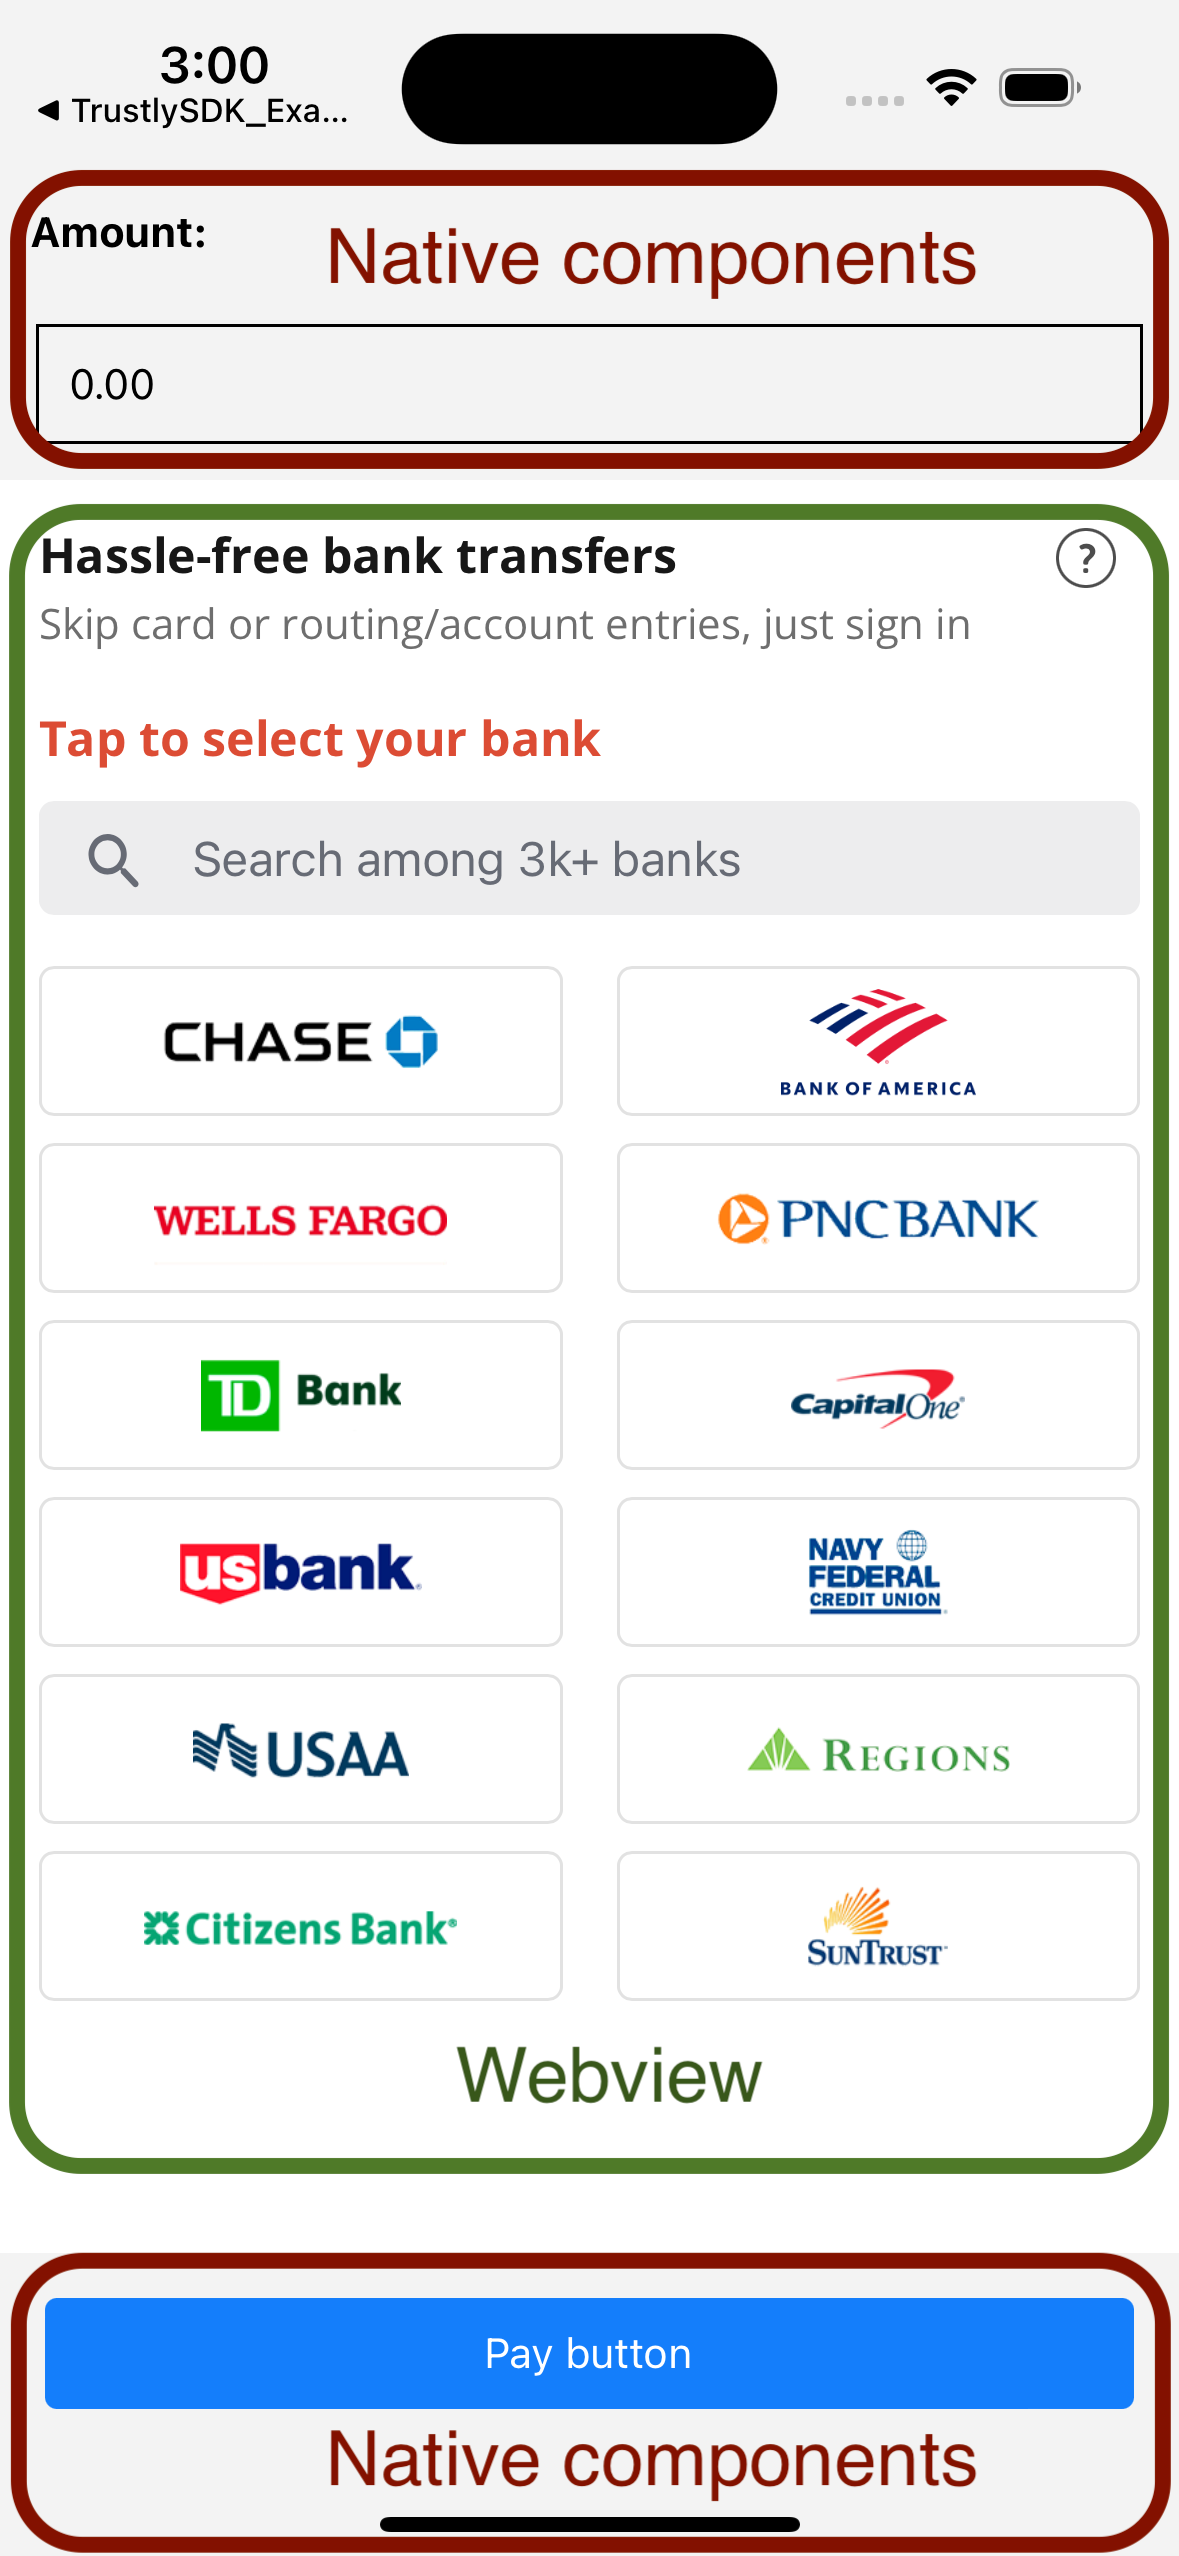
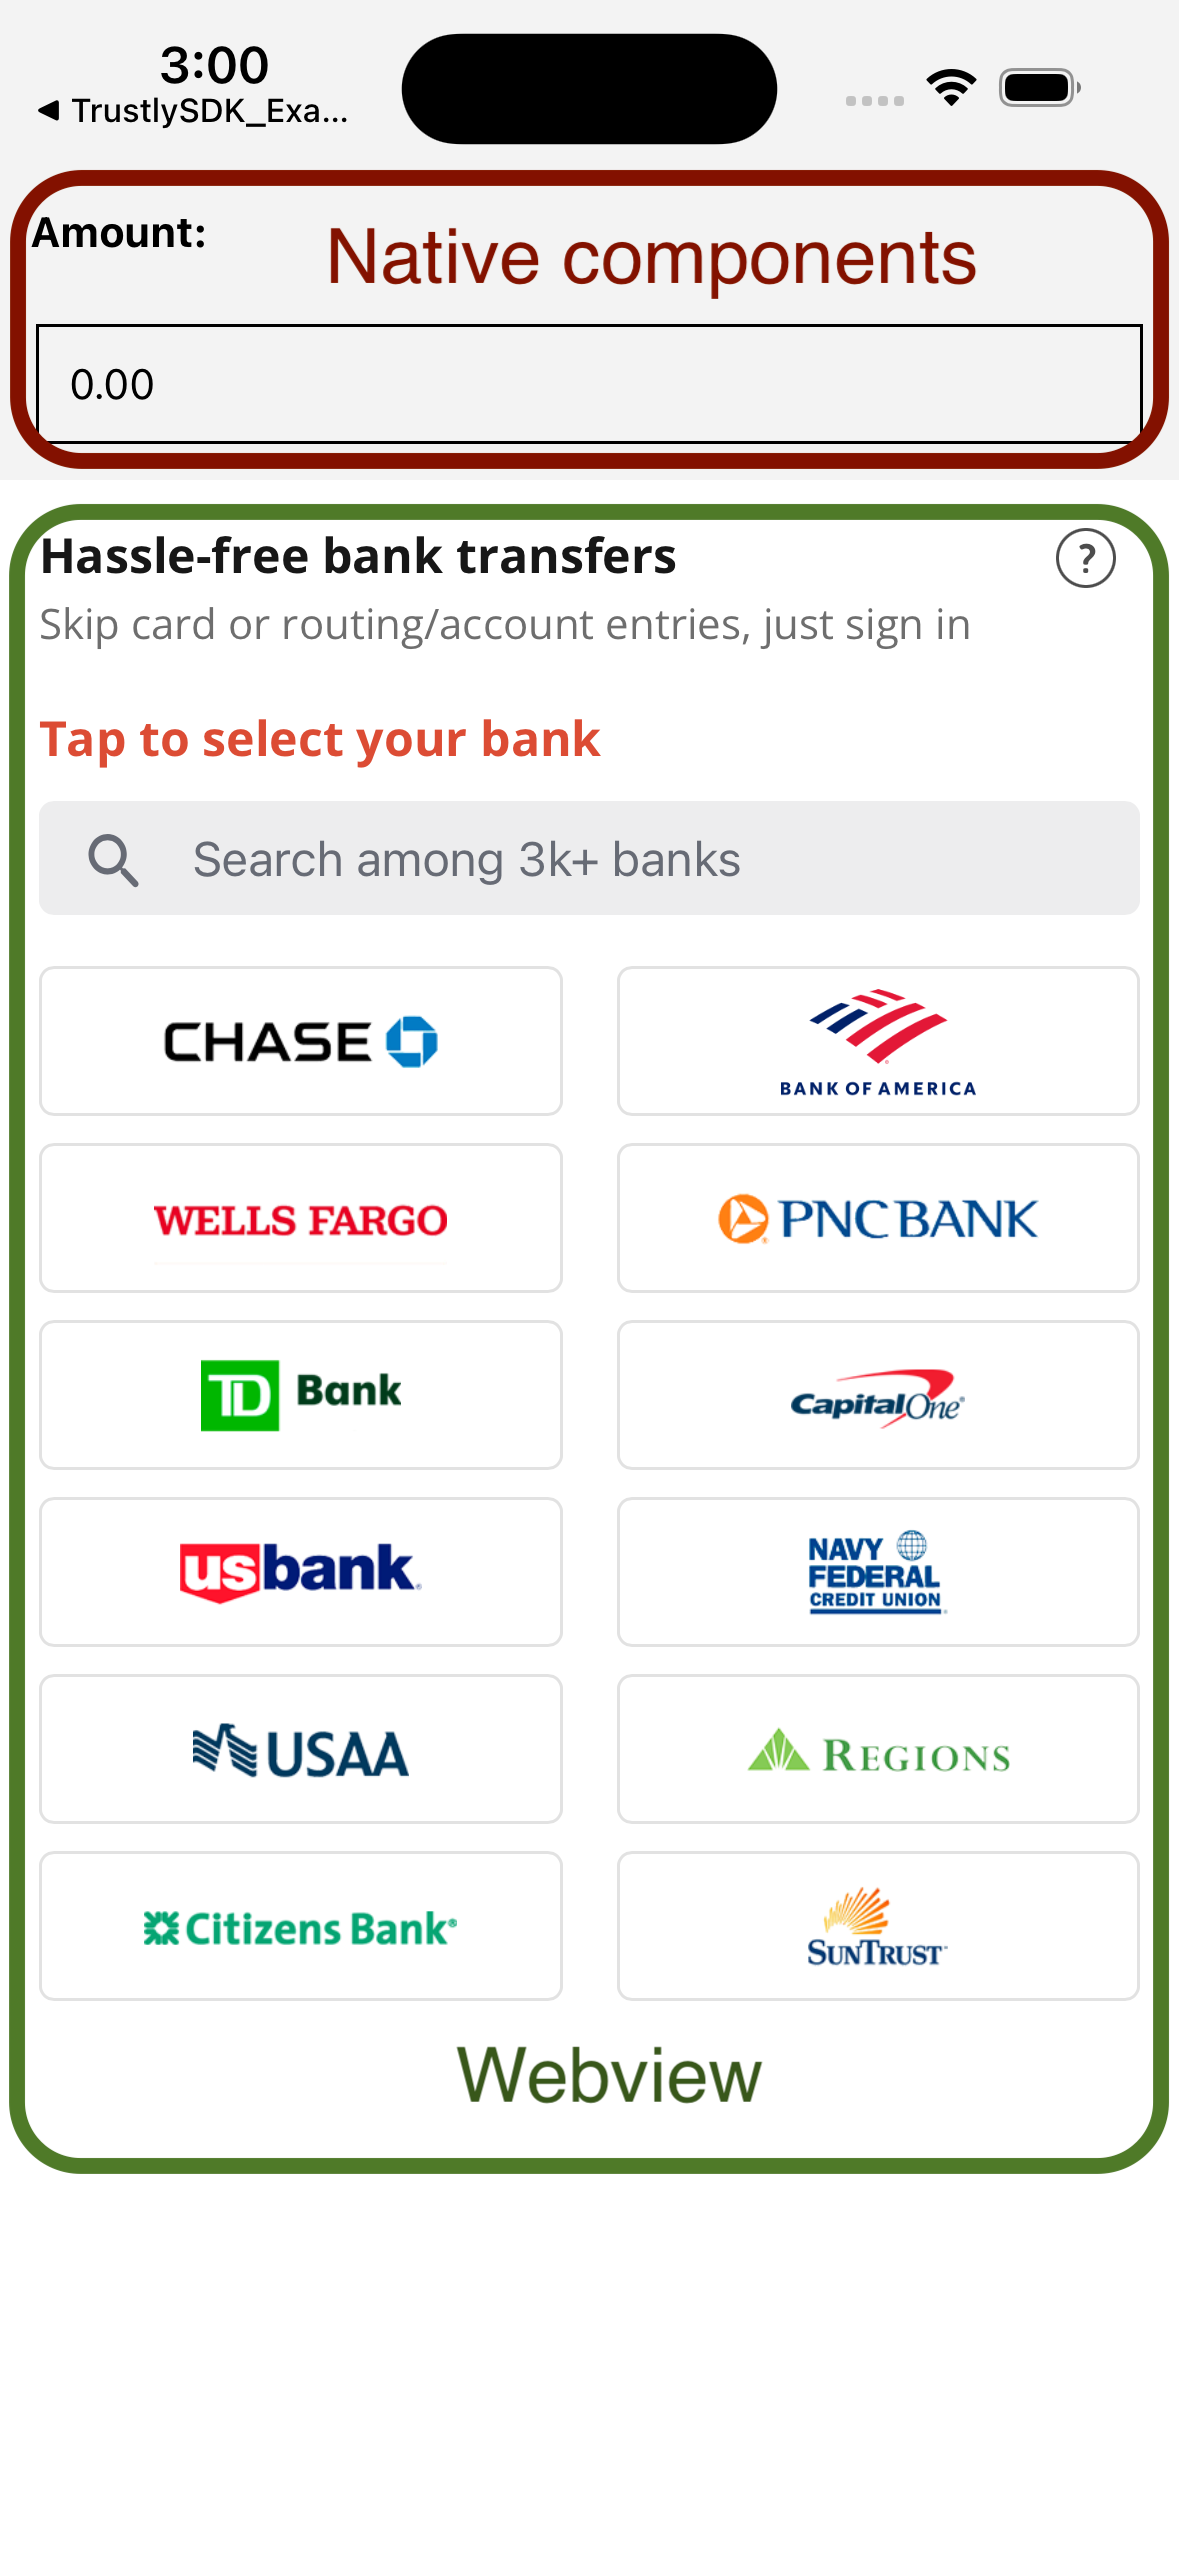
Change to show bank authentication when select bank on the widget

Changed region(s): [[0.0, 0.8654, 1.0, 1.0]]

diff --git a/src/App.tsx b/src/App.tsx
@@ -47,7 +47,6 @@ export default class App extends Component {
 
   state = {
     amount: '',
-    paymentProviderId: '',
     step: 'widget',
     returnParameters: '',
   };
@@ -134,7 +133,10 @@ export default class App extends Component {
     if(data.startsWith('PayWithMyBank.createTransaction')) {
       let splitedData = data.split('|')
 
-      this.setState({paymentProviderId: splitedData[1]});
+      this.establishData.amount = this.state.amount;
+      this.establishData.paymentProviderId = splitedData[1];
+      
+      this.goToAuthBankSelected();
     }
   }
 
@@ -167,10 +169,7 @@ export default class App extends Component {
     this.setState({amount});
   }
 
-  onPressPayButton = () => {
-    this.establishData.amount = this.state.amount;
-    this.establishData.paymentProviderId = this.state.paymentProviderId;
-    
+  goToAuthBankSelected = () => {
     this.setState({step: 'lightbox'});
   }
 
@@ -178,7 +177,6 @@ export default class App extends Component {
     this.setState({
       step: 'widget',
       amount: '',
-      paymentProviderId: '',
       returnParameters: '',
     });
   }
@@ -228,13 +226,6 @@ export default class App extends Component {
           startInLoadingState
           style={styles.widget}
       />
-
-      <TouchableOpacity
-        style={styles.payButton}
-        onPress={this.onPressPayButton} 
-        >
-        <Text style={{ color: '#fff' }}>Pay button</Text>
-      </TouchableOpacity>
 
     </SafeAreaView>
   }

diff --git a/README.md b/README.md
@@ -105,7 +105,7 @@ Some times you want to integrate the webview rendering Trustly widget with your 
 
 <img src="docs/images/rn_print.png" width="25%" height="25%" style="display: block; margin: 0 auto" />
 
-In this case, we need to avoid that `widget` call the `lightbox` immediatley when the user select a bank, for this beahvior you need to add a peace of javascript inside the `widget` like in the file `trustly.tsx` lines 19 to 23.
+In this case, we need to avoid that `widget` call the `lightbox` immediatley when the user select a bank, because we need to get the amount value to fill the establish data first, so, for this beahvior we need to add a peace of javascript inside the `widget` like in the file `trustly.tsx` lines 19 to 23.
 
 ```js
 const TrustlyWidgetBankSelected = (data) => {
@@ -117,15 +117,22 @@ Trustly.selectBankWidget(establishData, TrustlyOptions, TrustlyWidgetBankSelecte
 
 Now you must to implement in your `webview` a way to handle with 3 events triggered by the `widget` and `lightbox` to handle with the bank selection, close or cancel action and when the authorization finished.
 
-- Bank selection event (`PayWithMyBank.createTransaction`):
+- Bank selection event (`PayWithMyBank.createTransaction`): In this demonstration app, after select the bank, we redirect the user to the authentication page.
 
 ```js
 handlePaymentProviderId(data: string) {
   if(data.startsWith('PayWithMyBank.createTransaction')) {
     let splitedData = data.split('|')
 
-    this.setState({paymentProviderId: splitedData[1]});
+    this.establishData.amount = this.state.amount;
+    this.establishData.paymentProviderId = splitedData[1];
+
+    this.goToAuthBankSelected();
   }
+}
+
+goToAuthBankSelected = () => {
+  this.setState({step: 'lightbox'});
 }
 ```
 
